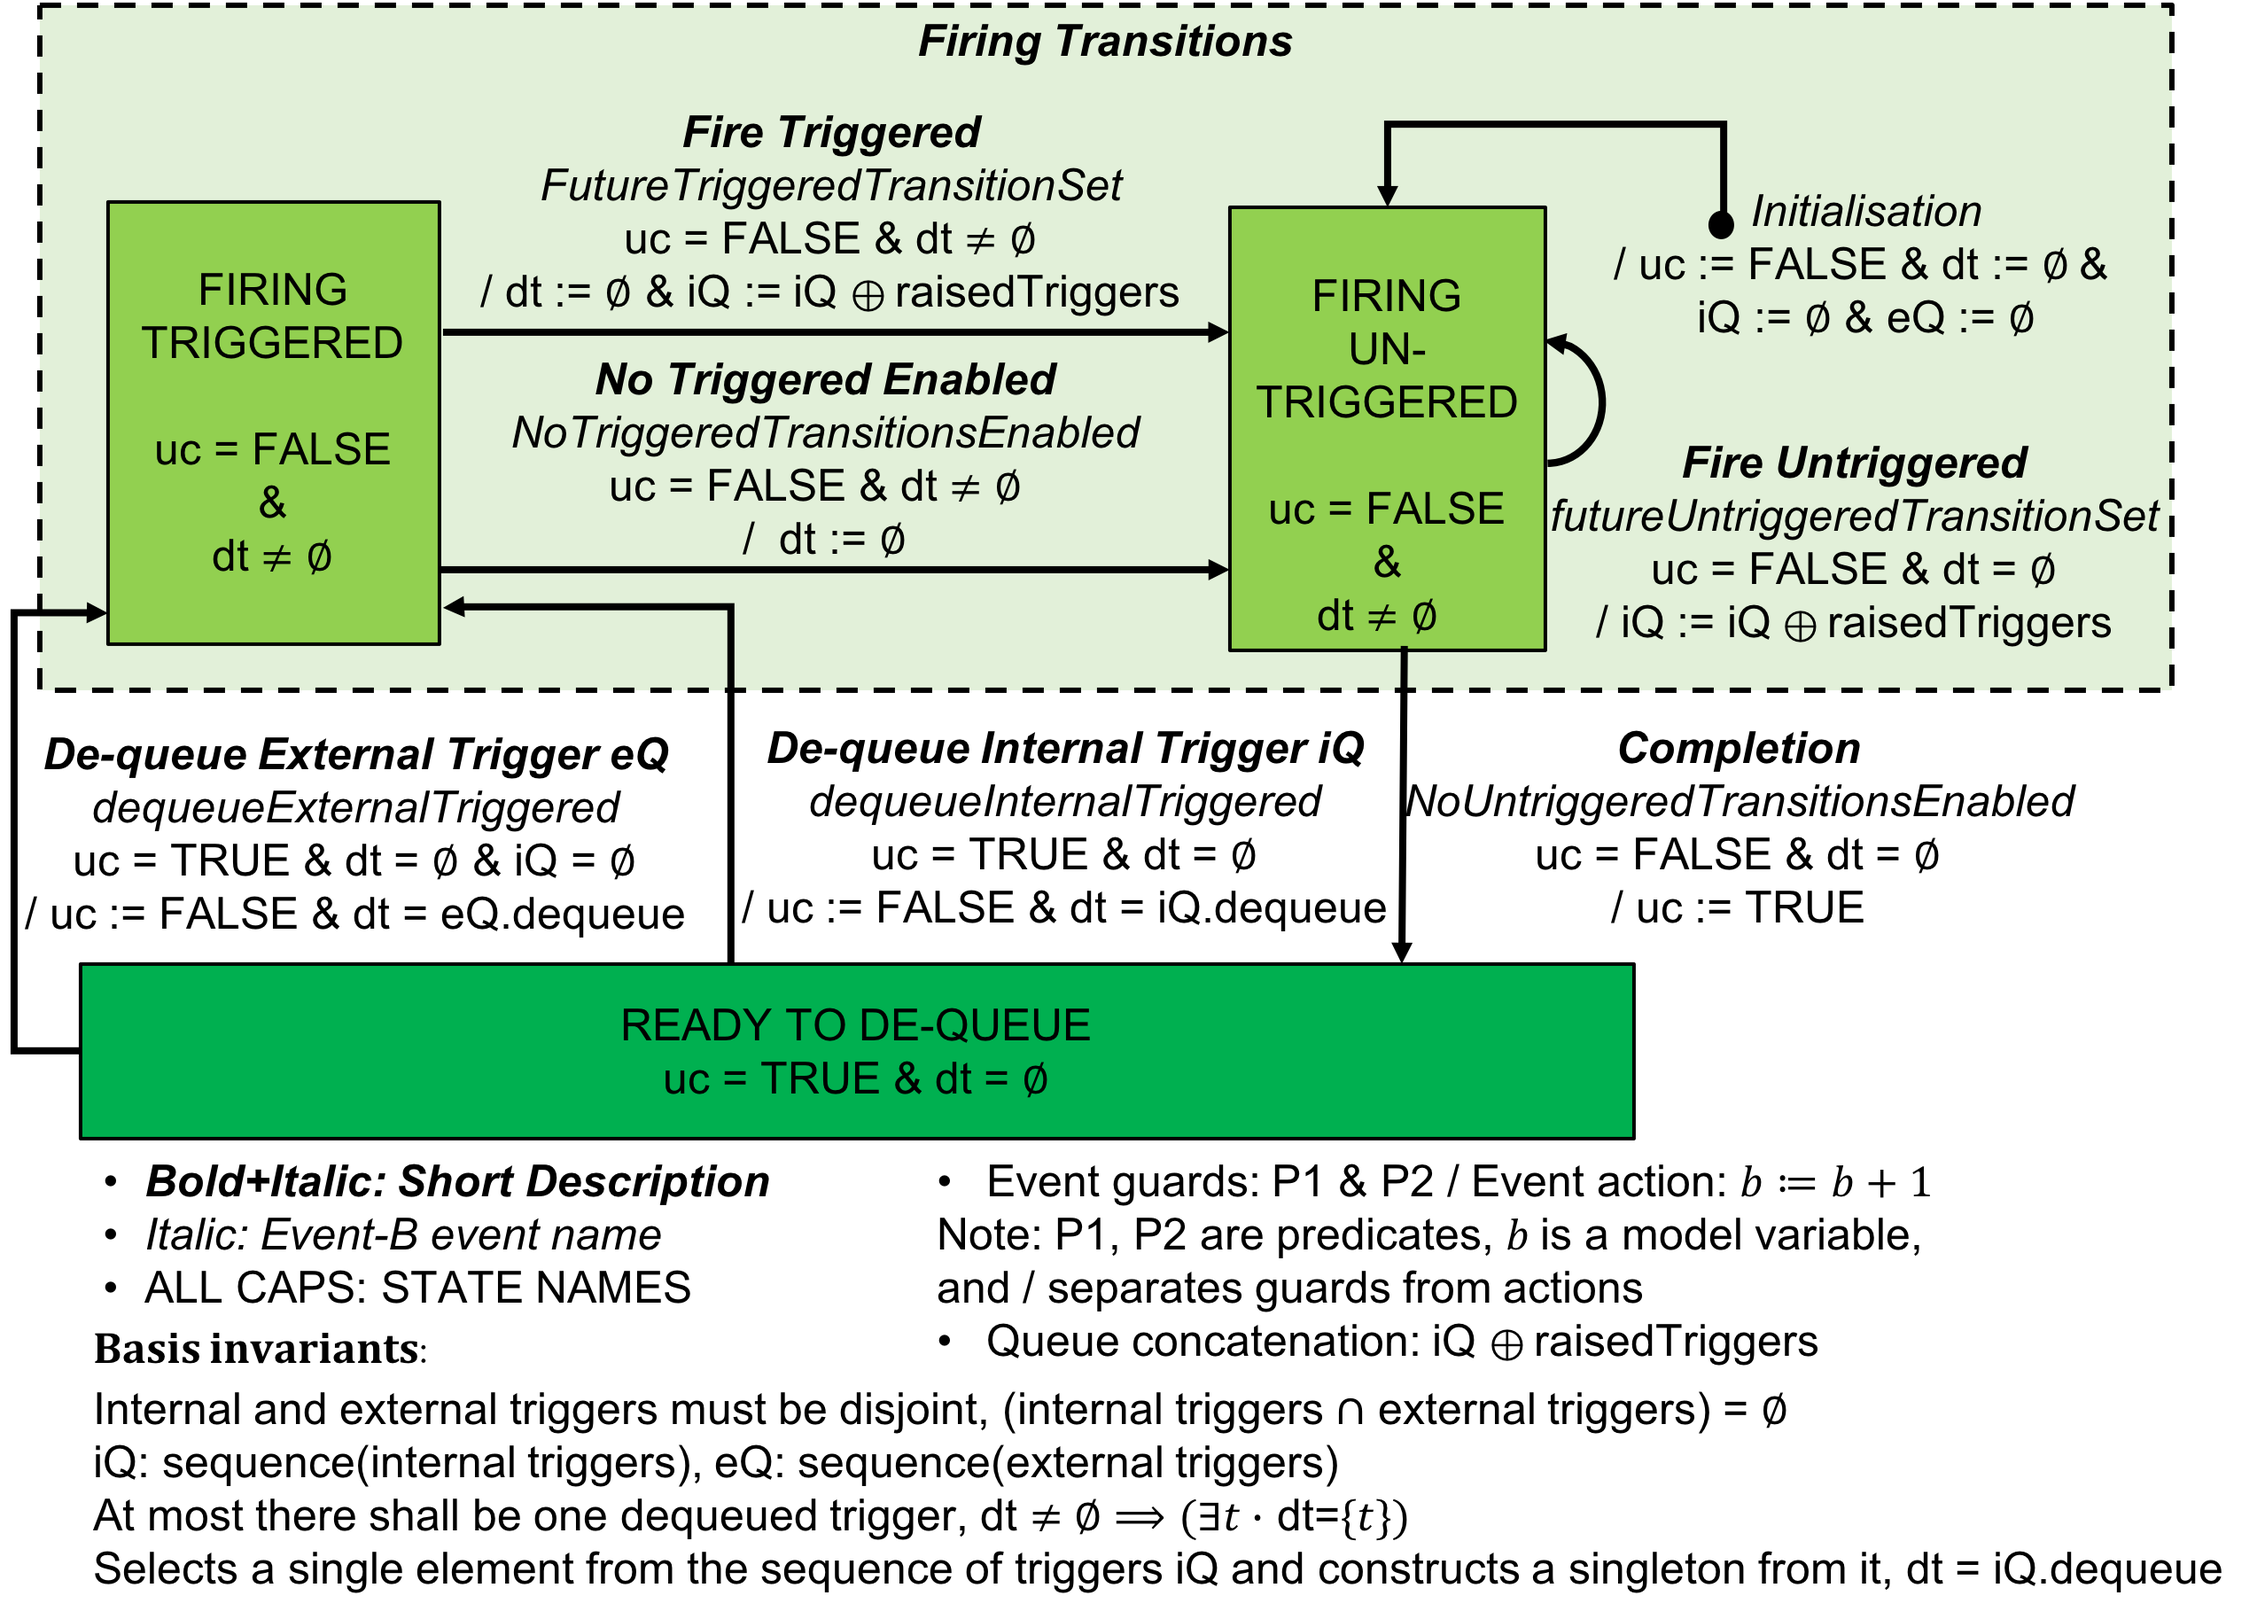
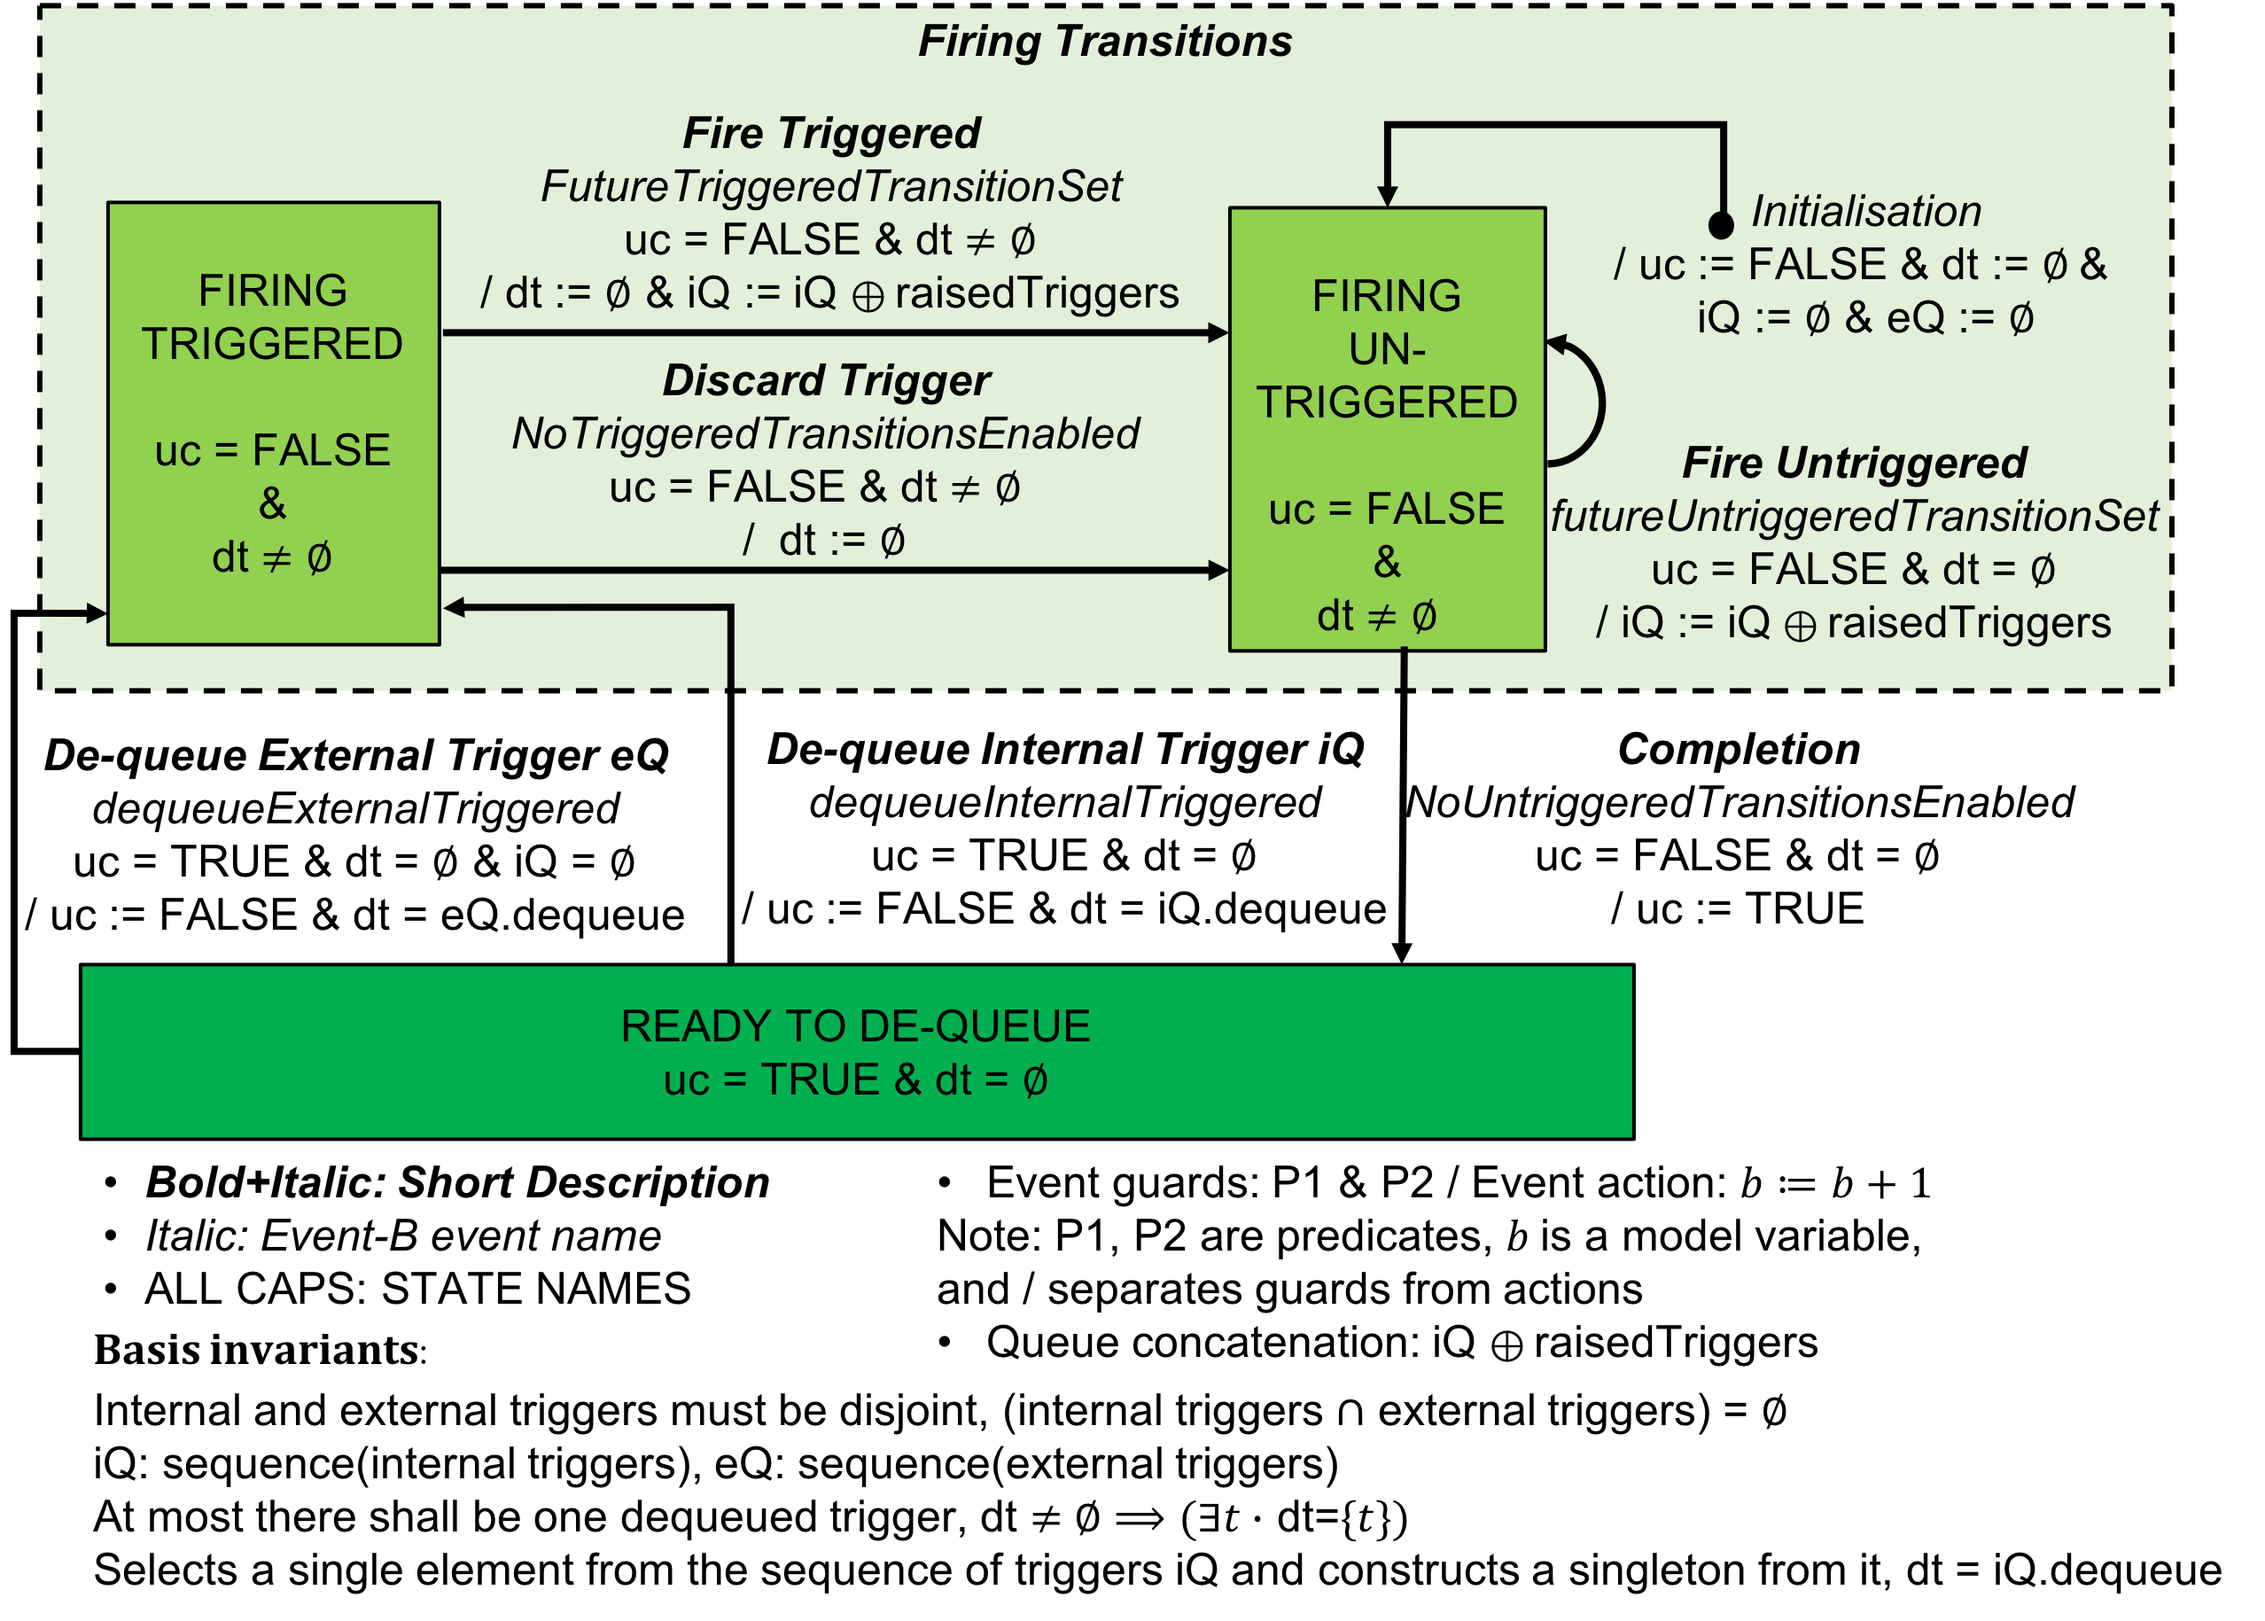
Update files to remove old comments and addressed desicions made during the meeting

diff --git a/manuscripts/ISSE/source/sections/runToCompletionBasis.tex b/manuscripts/ISSE/source/sections/runToCompletionBasis.tex
@@ -7,8 +7,6 @@ The run to completion semantics is specified via an abstract basis that is exten
 Figure~\ref{fig:basis} shows a state-chart representation of how the basis enforces 
 the run to completion semantics on the model transitions. 
 
-\ColinInlineComment{the Fig.1 needs updating wrt to queues.. e.g. eQ and iQ should be content(eQ) and content(iQ).
-	also NoTriggeredTransitionsEnable should be NoTriggeredTransitionsEnabled}
 \begin{figure}[!h]
 	\vspace{-.4cm}
 	\centering
@@ -41,7 +39,6 @@ return the \emph{content} (set of triggers) involved in a sequence.
 The Basis context also defines several theorem properties about sequences that are needed to discharge proof obligations.
 These are omitted from Listing~\ref{lst:BasisContext} for brevity.
 
-\ColinInlineComment{I changed the comments to a command in order to get them to align.  Is there a better way? }
 \newcommand*{\Comment}[1]{\color{green!50!black}\hfill\makebox[0.6\textwidth][l]{#1}}%
 
  \begin{lstlisting}[caption={Abstract basis context},label={lst:BasisContext}, language=Event-B, tabsize=8, escapechar=€, frame=single, basicstyle=\rmfamily\scriptsize, belowskip=-2.0 \baselineskip, float=t]
@@ -53,27 +50,27 @@ These are omitted from Listing~\ref{lst:BasisContext} for brevity.
  	FutureInternalTrigger	€\Comment{// all possible internal triggers}€
  	FutureExternalTrigger	€\Comment{// all possible external triggers}€
  	Seq							€\Comment{// return all possible sequences of given set of triggers}€
- 	Seq_length					€\Comment{// return the length of a sequence of triggers}€
- 	Seq_append					€\Comment{// return the result of appending trigger to a sequence}€
- 	Seq_concat					€\Comment{// return the concatenation of two sequences of triggers}€
- 	Seq_head					€\Comment{// return the trigger at head of a sequence of triggers}€
- 	Seq_tail					€\Comment{// return the sequence at tail of a sequence of triggers}€
- 	Seq_content					€\Comment{// return the set of triggers in a sequence of triggers}€
+ 	length					€\Comment{// return the length of a sequence of triggers}€
+ 	append					€\Comment{// return the result of appending trigger to a sequence}€
+ 	concat					€\Comment{// return the concatenation of two sequences of triggers}€
+ 	head					€\Comment{// return the trigger at head of a sequence of triggers}€
+ 	tail					€\Comment{// return the sequence at tail of a sequence of triggers}€
+ 	content					€\Comment{// return the set of triggers in a sequence of triggers}€
  	InternalQueueType			€\Comment{// type of internal queues}€
  	ExternalQueueType			€\Comment{// type of external queues}€
  	
  axioms
  	partition(SCXML_TRIGGER, FutureInternalTrigger, FutureExternalTrigger) 
  	Seq = (λT · T ⊆ SCXML_TRIGGER ∣ {n, s · n ∈ ℕ ∧ s ∈ 0 ‥ n − 1 → T ∣ s})
- 	Seq_length = (λs · s ∈ Seq(SCXML_TRIGGER) ∣ card(s))
- 	Seq_append = (λ s ↦ t · s ∈ Seq(SCXML_TRIGGER) ∧ t ∈ SCXML_TRIGGER ∣ 
- 		{i↦v ∣ i ∈ 0 ‥ Seq_length(s) ∧ (i < Seq_length(s) ⇒ v = s(i)) ∧ (i = Seq_length(s) ⇒ v = t) } )
-	Seq_concat = (λ s1 ↦ s2 · s1 ∈ Seq(SCXML_TRIGGER) ∧ s2 ∈ Seq(SCXML_TRIGGER) ∣ 
-		{i↦v ∣ i ∈ 0 ‥ Seq_length(s1) + Seq_length(s2) − 1 ∧ (i < Seq_length(s1) ⇒ 
-									v = s1(i)) ∧ (i ≥ Seq_length(s1) ⇒ v = s2(i − Seq_length(s1))) } )
-	Seq_head = (λs · s ∈ Seq(SCXML_TRIGGER) ∧ s ≠ ∅ ∣ s(0))								
-	Seq_tail = (λs· s∈Seq(SCXML_TRIGGER) ∧ s≠∅ ∣ {i↦v ∣ i∈0‥Seq_length(s)−2 ∧ v=s(i+1)} )	
-	Seq_content = (λs · s ∈ Seq(SCXML_TRIGGER) ∣ ran(s))
+ 	length = (λs · s ∈ Seq(SCXML_TRIGGER) ∣ card(s))
+ 	append = (λ s ↦ t · s ∈ Seq(SCXML_TRIGGER) ∧ t ∈ SCXML_TRIGGER ∣ 
+ 		{i↦v ∣ i ∈ 0 ‥ length(s) ∧ (i < length(s) ⇒ v = s(i)) ∧ (i = length(s) ⇒ v = t) } )
+	concat = (λ s1 ↦ s2 · s1 ∈ Seq(SCXML_TRIGGER) ∧ s2 ∈ Seq(SCXML_TRIGGER) ∣ 
+		{i↦v ∣ i ∈ 0 ‥ length(s1) + length(s2) − 1 ∧ (i < length(s1) ⇒ 
+									v = s1(i)) ∧ (i ≥ length(s1) ⇒ v = s2(i − length(s1))) } )
+	head = (λs · s ∈ Seq(SCXML_TRIGGER) ∧ s ≠ ∅ ∣ s(0))								
+	tail = (λs· s∈Seq(SCXML_TRIGGER) ∧ s≠∅ ∣ {i↦v ∣ i∈0‥length(s)−2 ∧ v=s(i+1)} )	
+	content = (λs · s ∈ Seq(SCXML_TRIGGER) ∣ ran(s))
 	InternalQueueType = Seq(FutureInternalTrigger)
 	ExternalQueueType = Seq(FutureExternalTrigger)
  end

diff --git a/manuscripts/ISSE/source/sections/introduction.tex b/manuscripts/ISSE/source/sections/introduction.tex
@@ -4,17 +4,7 @@
 \section{Introduction}
 \label{sec:intro}
 
-\KarlaInlineComment{New context for journal article:}
-\KarlaInlineComment{ We simulate the translation with the scenario checker. 
-	It automatically runs to completion (events are annotated as internal and prioritised)
- This shows the main intended R2C behaviour for a refinement level.
- Other behaviours are possible depending on future refinement - e.g. a completion can occur without taking enabled transitions if in future we might strengthen a guard.
- 	these can be explored by single event stepping without the scenario checker big step.}
-
-\KarlaInlineComment{ Implementing a queue for the triggers }
-
 \KarlaInlineComment{ Proving liveness properties instead of model checking it }
-\ColinInlineComment{Do we still discuss the difficulty of refinement and R2C? If not should we add it back in?}
 
 Reactive \SCs are open systems capable of receiving potentially non-deterministic input. 
 %This work exposes a shallow embedding of open \SCs~\cite{MoSn16,MoSnHo18,MoSnHo-ABZ2020} semantics in \EventB.
@@ -40,7 +30,6 @@ Preservation of safety across refinement requires only a few restrictions to the
 %Such a unification of composition and refinement can lead, not only to code reuse, but reuse of proofs.
 \input{sections/relatedWork}
 
-\ColinInlineComment{Check outline below is correct before submission}
 %Section~\ref{sec:relatedWork} discusses related work on refinement and what are the different types.
 Section~\ref{sec:background} provides background material. 
 Section~\ref{sec:run-completion} discusses the \SC concept of `run to completion' and how it can be specified in \EventB. 

diff --git a/manuscripts/ISSE/source/sections/verificationOfSafetyProperties.tex b/manuscripts/ISSE/source/sections/verificationOfSafetyProperties.tex
@@ -65,13 +65,11 @@ Since this transition fires when |BATTERYOK = TRUE| (i.e. its source state) and 
 The safety property of the |TAKEOFF| and |FLY| states can now be simply stated as |BATTERYOK = TRUE|. 
 However, since this relies on a particular internal trigger (|toLand|) to make the appropriate reaction, we also need to specify that trigger as an attribute of the invariant in the \SCXML model.
 After translation to \EVENTB via \UMLB the invariant in state |TAKEOFF| becomes 
+
 \begin{center}
- |(TAKEOFF = TRUE) ⇒ (toLand∈iQ ∨ toLand∈dt ∨ BATTERYOK=TRUE)|.
+ |(TAKEOFF = TRUE) ⇒ (toLand !: content(iQ) ∨ toLand∈dt ∨ BATTERYOK=TRUE)|.
 \end{center}
-\KarlaInlineComment{I think the property needs to be revised}
-\begin{center}
- |(TAKEOFF = TRUE) ⇒ ({toLand} <: content(iQ) ∨ toLand∈dt ∨ BATTERYOK=TRUE)|.
-\end{center}
+
 The invariant for the |FLY| state is similar with a corresponding antecedent.
 The transitions that enter |TAKEOFF| (which make the antecedent true) simultaneously enter |BATTERYOK| ensure the consequent is true.
 The only transition that enters |FLY| (which makes the antecedent of the |FLY| invariant true) comes from the |TAKEOFF| state and hence the consequent is already true.

diff --git a/manuscripts/ISSE/source/main.tex b/manuscripts/ISSE/source/main.tex
@@ -83,7 +83,7 @@
 
 % first the title is needed
 % \title{Refinement of Reactive Systems} 
-\title{Formal verification of run-to-completion style statecharts using Event-B}
+\title{Formal verification and validation of run-to-completion style statecharts using Event-B}
 
 % a short form should be given in case it is too long for the running head
 % \titlerunning{Refinement of Reactive Systems} 
@@ -125,7 +125,7 @@ K. Morris \inst{1}
 %% commands, abstract environment, Computing Classification System
 %% environment and commands, and keywords command.
 \maketitle
-\KarlaInlineComment{ Do we want to change the tile to: Formal verification and validation of run-to-completion style statecharts using Event-B }
+
 
 \input{sections/abstract}
 \input{sections/introduction}
